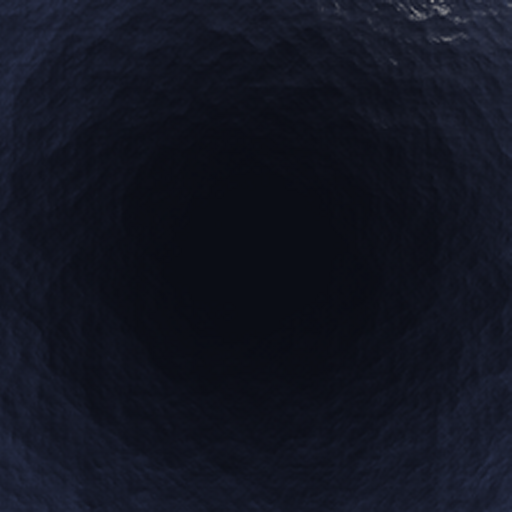
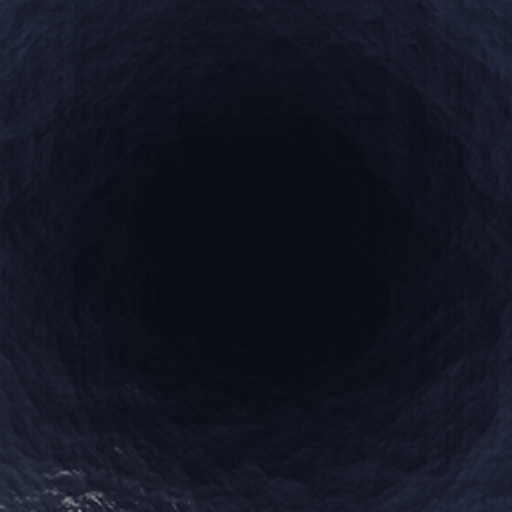
house-keeping

diff --git a/src/components/Skyboxes/Skybox.js b/src/components/Skyboxes/Skybox.js
@@ -1,12 +1,12 @@
 import * as THREE from 'three';
 
 //SKYBOX IMAGES
-const backImage = require('../../assets/skybox/misty/back.png');
-const frontImage = require('../../assets/skybox/misty/front.png');
-const upImage = require('../../assets/skybox/misty/up.png');
-const downImage = require('../../assets/skybox/misty/down.png');
-const rightImage = require('../../assets/skybox/misty/right.png');
-const leftImage = require('../../assets/skybox/misty/left.png');
+const backImage = require('../../assets/skybox/oasis/back.png');
+const frontImage = require('../../assets/skybox/oasis/front.png');
+const upImage = require('../../assets/skybox/oasis/up.png');
+const downImage = require('../../assets/skybox/oasis/down.png');
+const rightImage = require('../../assets/skybox/oasis/right.png');
+const leftImage = require('../../assets/skybox/oasis/left.png');
 
 //SKYBOX
 let skyboxCube = new THREE.CubeGeometry(1000, 1000, 1000);

diff --git a/src/App.js b/src/App.js
@@ -1,16 +1,8 @@
 import React, { Component } from 'react';
 import { Provider } from 'react-redux';
-import { createStore, applyMiddleware } from 'redux';
-import reducer from './store/store';
 import { BrowserRouter } from 'react-router-dom';
 import Routes from './components/Routes';
-
-import loggingMiddleware from 'redux-logger';
-
-const middlewares = applyMiddleware(loggingMiddleware);
-
-const store = createStore(reducer, middlewares);
-
+import store from './store';
 class App extends Component {
   render() {
     return (

diff --git a/src/components/ThreeJSCanvas.js b/src/components/ThreeJSCanvas.js
@@ -4,7 +4,6 @@ import { connect } from 'react-redux';
 import OrbitControls from 'three-orbitcontrols';
 import skybox from './Skyboxes/Skybox';
 import gridCubeLines from './3DModels/GridCubeLines';
-
 class ThreeJSCanvas extends Component {
   constructor(props) {
     super(props);
@@ -44,6 +43,7 @@ class ThreeJSCanvas extends Component {
 
     // GRID CUBE LINES
     this.scene.add(gridCubeLines);
+
   }
 
   componentDidMount() {

diff --git a/src/store/index.js b/src/store/index.js
@@ -1,0 +1,10 @@
+import { createStore, applyMiddleware } from 'redux';
+import reducer from './reducer';
+import loggingMiddleware from 'redux-logger';
+
+const middlewares = applyMiddleware(loggingMiddleware);
+
+const store = createStore(reducer, middlewares);
+
+export default store;
+export * from './reducer';

diff --git a/src/screens/Main.js b/src/screens/Main.js
@@ -2,9 +2,9 @@ import React, { Component } from 'react';
 import ThreeJSCanvas from '../components/ThreeJSCanvas';
 
 class Main extends Component {
-  constructor() {
-    super();
-  }
+  // constructor() {
+  //   super();
+  // }
 
   render() {
     return (

diff --git a/src/components/Routes.js b/src/components/Routes.js
@@ -1,7 +1,6 @@
 import React from 'react';
 import { withRouter, Route, Switch } from 'react-router-dom';
 import Main from '../screens/Main';
-import ThreeJSCanvas from './ThreeJSCanvas';
 
 const Routes = props => (
   <div id="body">
